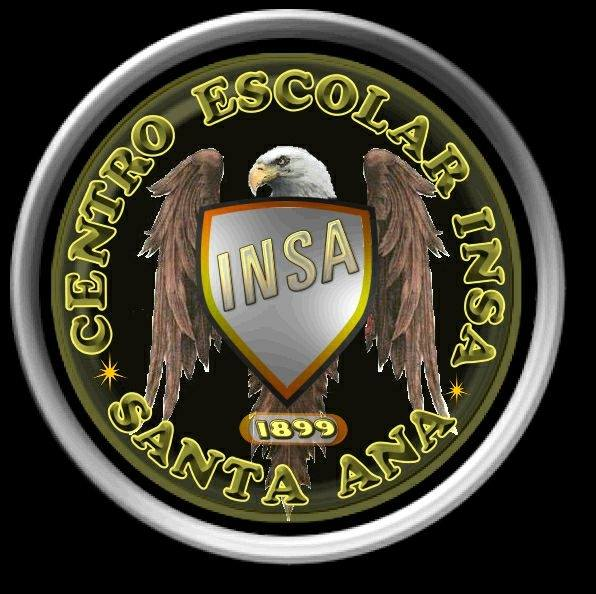
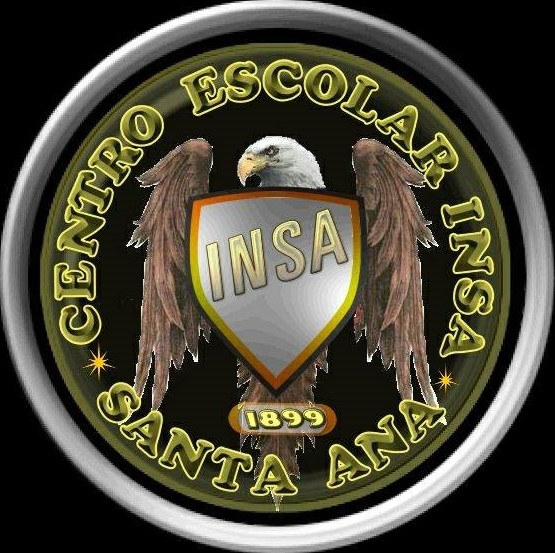
mejoras de la imagen del login

diff --git a/app/templates/auth/auth.html b/app/templates/auth/auth.html
@@ -15,7 +15,7 @@
     {% endblock %}
     <form class="form-signin text-center" action="{{ url_for('AuthLogin.login') }}"  method="post">
         <input type="hidden" name="csrf_token" ><!--Este input generara el token para la seguridad de nuestros formularios-->
-        <img class="mb-4" src="{{url_for('static', filename='img/Escudo-INSA2.jpg')}}" alt="" width="150" height="150">
+        <img class="mb-4 rounded-circle " src="{{url_for('static', filename='img/Escudo-INSA2.jpg')}}" alt="" width="150" height="150">
         <h1 class="h3 mb-3 font-weight-normal fs-3 fw-bold">Please sign in</h1>
         <input type="text" name="username" id="username" class="form-control" placeholder="Username" required autofocus>
         <label for="username" class="sr-only py-2 fs-3 fw-bold" >Username</label>

diff --git a/app/templates/navbar.html b/app/templates/navbar.html
@@ -1,4 +1,4 @@
-<nav class="  navbar navbar-expand-lg  navbar-dark bg-dark   ">
+<nav class=" sticky-sm-top navbar navbar-expand-lg  navbar-dark bg-dark   ">
     <div class="container-fluid">
         <a class="navbar-brand fw-bold fs-3"  href="{{ url_for('IndexBlueprint.index') }}">TORNEO DE FUTBOL INSA</a>
         <button class="navbar-toggler" type="button" data-bs-toggle="collapse" data-bs-target="#navbarNav"
